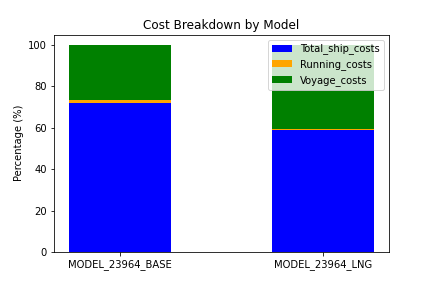
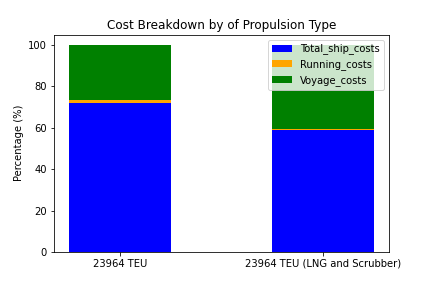
made lng model

Changed region(s): [[0.2407, 0.0625, 0.7824, 0.125], [0.5718, 0.875, 0.9329, 0.9375], [0.1505, 0.875, 0.3912, 0.9375]]

diff --git a/lng_bar_chart_hard_code.py b/lng_bar_chart_hard_code.py
@@ -74,7 +74,7 @@ lng_percentages = [lng_totals[0] / lng_totals[3] * 100,
                    lng_totals[2] / lng_totals[3] * 100]
 
 # Define models, categories, and fixed colors for each category
-models = ["MODEL_23964_BASE", "MODEL_23964_LNG"]
+models = ["23964 TEU", "23964 TEU (LNG and Scrubber)"]
 categories = ["Total_ship_costs", "Running_costs", "Voyage_costs"]
 colors = {
     "Total_ship_costs": "blue",
@@ -101,7 +101,7 @@ ax.bar(models[1], lng_percentages[2], width=bar_width,
 
 # Customize the chart
 ax.set_ylabel("Percentage (%)")
-ax.set_title("Cost Breakdown by Model")
+ax.set_title("Cost Breakdown by of Propulsion Type")
 ax.legend()
 
 # Save the figure to the specified directory
